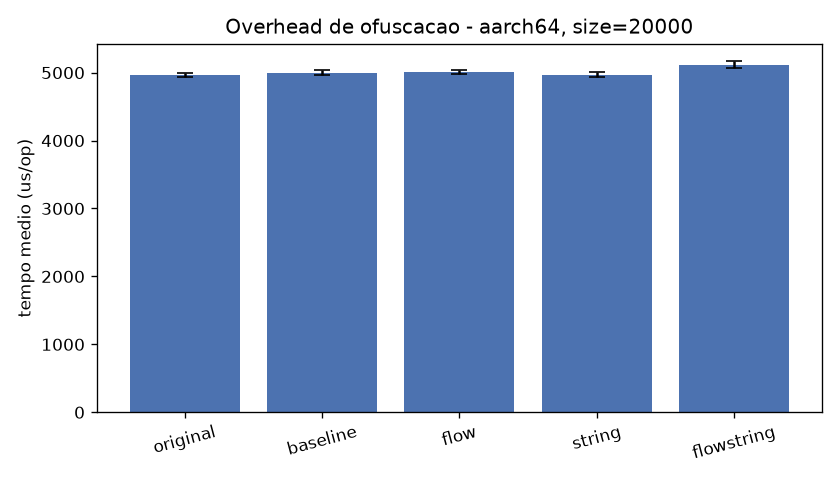
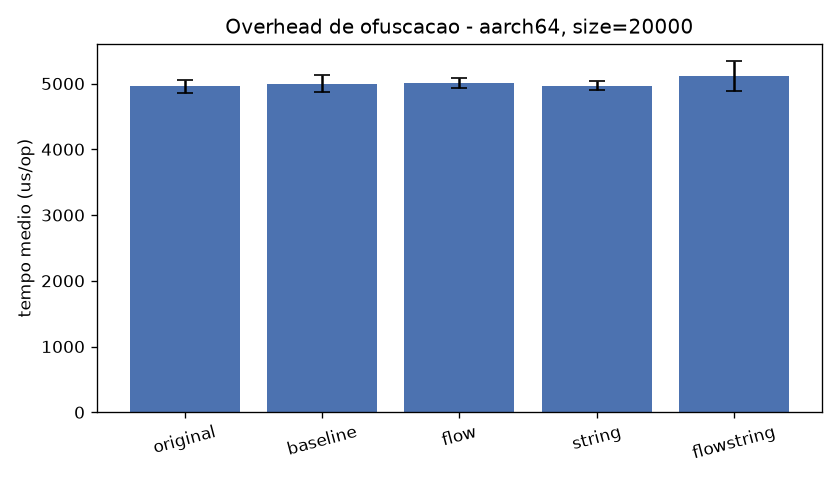
fix: ajusta script python

diff --git a/scripts/07_analyze.py b/scripts/07_analyze.py
@@ -2,13 +2,34 @@
 """
 T8 - Analise estatistica do overhead de ofuscacao a partir dos JSON do JMH.
 
-Le results/jmh-<arch>-<perfil>.json, agrega as amostras brutas (rawData) por
-(arquitetura, tamanho, perfil), e calcula:
-  - media, intervalo de confianca 95% (t de Student sobre as amostras);
-  - overhead relativo (%) de cada perfil vs. 'original';
-  - teste de significancia vs. 'original': Shapiro-Wilk decide entre
-    t de Welch (normal) e Mann-Whitney U (nao-normal);
-  - tamanho de efeito (Cliff's delta).
+Le results/jmh-<arch>-<perfil>.json e, para cada (arquitetura, tamanho, perfil):
+- agrega as amostras brutas (rawData) por FORK -> media por fork. O fork e a
+  unidade de independencia correta: iteracoes dentro de um mesmo fork sao
+  autocorrelacionadas (mesma JVM, aquecimento, JIT), entao tratar cada
+  iteracao como amostra independente subestima a variancia (pseudo-replicacao);
+- media e IC 95% (t de Student sobre as medias por fork);
+- overhead relativo (%) vs. 'original', com IC 95% por bootstrap da razao;
+- teste de significancia vs. 'original': Shapiro-Wilk decide entre t de Welch
+  (normal) e Mann-Whitney U (nao-normal), quando ha amostras suficientes;
+- correcao de multiplas comparacoes (Holm-Bonferroni) por (arch, size);
+- tamanho de efeito (Cliff's delta), vetorizado.
+
+Pipeline (main): load() -> analyze() -> summary.csv + plot().
+
+Colunas de analysis/summary.csv:
+  arch                arquitetura extraida do nome do arquivo (ex.: x64, arm64).
+  size                parametro 'size' do benchmark (nº de ordens).
+  profile             perfil de ofuscacao (original|baseline|flow|string|flowstring).
+  mean, ci_lo, ci_hi  tempo medio por fork e IC 95% (t de Student).
+  unit                unidade do JMH (ex.: us/op).
+  overhead_%_vs_original overhead percentual da media vs. 'original'.
+  overhead_ci_lo/hi   IC 95% do overhead via bootstrap da razao de medias.
+  test                teste aplicado vs. 'original' (welch-t|mann-whitney|n/a).
+  p_value             p-valor bruto do teste.
+  p_value_holm        p-valor ajustado por Holm-Bonferroni na familia (arch, size).
+  significant_5%      True se p_value_holm < 0.05.
+  cliffs_delta        tamanho de efeito nao-parametrico em [-1, 1].
+  n_forks             nº de forks (amostras) usados na inferencia.
 
 Saidas:
   analysis/summary.csv
@@ -24,7 +45,6 @@ import glob
 import json
 import os
 import re
-from itertools import product
 
 import numpy as np
 import pandas as pd
@@ -39,46 +59,79 @@ import matplotlib
 matplotlib.use("Agg")
 import matplotlib.pyplot as plt
 
-RESULTS_DIR = "results"
-OUT_DIR = "analysis"
+RESULTS_DIR = "results"              # diretorio de entrada com os JSON do JMH
+OUT_DIR = "analysis"                 # diretorio de saida (CSV + graficos)
 PROFILES_ORDER = ["original", "baseline", "flow", "string", "flowstring"]
 FNAME_RE = re.compile(r"jmh-(?P<arch>[^-]+)-(?P<profile>[a-z]+)\.json$")
+N_BOOTSTRAP = 10_000                 # reamostragens do IC de overhead
+RNG = np.random.default_rng(20260727)  # seed fixa -> resultados reproduziveis
 
 
-def flatten_raw(primary: dict) -> list[float]:
-    """Achata rawData (lista por fork de listas de iteracoes) em amostras."""
+def fork_means(primary: dict) -> list[float]:
+    """Reduz o rawData de um benchmark a uma media por fork.
+
+    rawData e uma lista (por fork) de listas (iteracoes). Reduzimos cada fork a
+    sua media, obtendo uma amostra por fork -- a unidade de independencia. Sem
+    rawData, usamos o score agregado como amostra unica.
+
+    Args:
+        primary: bloco 'primaryMetric' de uma entrada do JSON do JMH.
+
+    Returns:
+        Lista com uma media por fork (ou [score] no fallback).
+    """
     raw = primary.get("rawData")
-    samples: list[float] = []
+    means: list[float] = []
     if raw:
         for fork in raw:
-            samples.extend(float(x) for x in fork)
-    if not samples:  # fallback: usa o score agregado
-        samples = [float(primary["score"])]
-    return samples
+            vals = [float(x) for x in fork]
+            if vals:
+                means.append(float(np.mean(vals)))
+    if not means:  # fallback: usa o score agregado
+        means = [float(primary["score"])]
+    return means
 
 
 def load() -> pd.DataFrame:
+    """Carrega todos os results/jmh-*.json em um DataFrame long.
+
+    Cada linha corresponde a um (arch, profile, size) e carrega em 'samples' as
+    medias por fork. Arquivos ou entradas malformadas sao ignorados com aviso,
+    para que um JSON corrompido nao interrompa toda a analise.
+
+    Returns:
+        DataFrame com colunas: arch, profile, size, unit, samples.
+
+    Raises:
+        SystemExit: se nenhum arquivo valido for encontrado.
+    """
     rows = []
     for path in sorted(glob.glob(os.path.join(RESULTS_DIR, "jmh-*.json"))):
         m = FNAME_RE.search(os.path.basename(path))
         if not m:
             continue
         arch, profile = m.group("arch"), m.group("profile")
-        with open(path, encoding="utf-8") as fh:
-            data = json.load(fh)
+        try:
+            with open(path, encoding="utf-8") as fh:
+                data = json.load(fh)
+        except (OSError, json.JSONDecodeError) as exc:
+            print(f"[aviso] ignorando '{path}': {exc}")
+            continue
         for entry in data:
-            size = int(entry.get("params", {}).get("size", -1))
-            primary = entry["primaryMetric"]
-            rows.append(
-                {
-                    "arch": arch,
-                    "profile": profile,
-                    "size": size,
-                    "unit": primary.get("scoreUnit", "us/op"),
-                    "samples": flatten_raw(primary),
-                }
-            )
-            
+            try:
+                primary = entry["primaryMetric"]
+                size = int(entry.get("params", {}).get("size", -1))
+                rows.append(
+                    {
+                        "arch": arch,
+                        "profile": profile,
+                        "size": size,
+                        "unit": primary.get("scoreUnit", "us/op"),
+                        "samples": fork_means(primary),
+                    }
+                )
+            except (KeyError, TypeError, ValueError) as exc:
+                print(f"[aviso] entrada invalida em '{path}': {exc}")
     if not rows:
         raise SystemExit(
             f"Nenhum arquivo jmh-*.json em '{RESULTS_DIR}/'. Rode T6 (04_bench.sh) primeiro."
@@ -87,6 +140,14 @@ def load() -> pd.DataFrame:
 
 
 def ci95(samples: np.ndarray) -> tuple[float, float, float]:
+    """Media e IC 95% (t de Student) de um conjunto de amostras.
+
+    Com scipy ausente, usa a aproximacao normal (z=1.96). Com n<2 o intervalo
+    degenera para o proprio ponto.
+
+    Returns:
+        Tupla (media, limite_inferior, limite_superior).
+    """
     n = len(samples)
     mean = float(np.mean(samples))
     if n < 2:
@@ -100,21 +161,74 @@ def ci95(samples: np.ndarray) -> tuple[float, float, float]:
 
 
 def cliffs_delta(a: np.ndarray, b: np.ndarray) -> float:
-    """Cliff's delta em [-1,1]; >0 significa 'a' tipicamente maior que 'b'."""
-    gt = sum(1 for x, y in product(a, b) if x > y)
-    lt = sum(1 for x, y in product(a, b) if x < y)
+    """Cliff's delta em [-1,1]; >0 => 'a' tipicamente maior que 'b'. Vetorizado."""
+    a = np.asarray(a, float)
+    b = np.sort(np.asarray(b, float))
+    if len(a) == 0 or len(b) == 0:
+        return float("nan")
+    # para cada x em a: quantos b < x (gt) e quantos b > x (lt)
+    gt = int(np.searchsorted(b, a, side="left").sum())
+    lt = int((len(b) - np.searchsorted(b, a, side="right")).sum())
     return (gt - lt) / (len(a) * len(b))
 
 
+def bootstrap_overhead_ci(profile: np.ndarray, base: np.ndarray) -> tuple[float, float]:
+    """IC 95% do overhead (%) = (mean(profile)/mean(base) - 1)*100 via bootstrap."""
+    if len(profile) < 2 or len(base) < 2:
+        return float("nan"), float("nan")
+    pr = RNG.choice(profile, size=(N_BOOTSTRAP, len(profile)), replace=True).mean(axis=1)
+    ba = RNG.choice(base, size=(N_BOOTSTRAP, len(base)), replace=True).mean(axis=1)
+    ratios = (pr / ba - 1.0) * 100.0
+    lo, hi = np.percentile(ratios, [2.5, 97.5])
+    return float(lo), float(hi)
+
+
+def holm_bonferroni(pvals: list[float]) -> np.ndarray:
+    """Holm-Bonferroni; retorna p ajustados na ordem original (NaN ignorados)."""
+    p = np.asarray(pvals, float)
+    adj = np.full_like(p, np.nan)
+    idx = np.where(~np.isnan(p))[0]
+    if len(idx) == 0:
+        return adj
+    order = idx[np.argsort(p[idx])]
+    m = len(order)
+    prev = 0.0
+    for rank, i in enumerate(order):
+        val = min((m - rank) * float(p[i]), 1.0)
+        val = max(val, prev)  # garante monotonicidade
+        adj[i] = val
+        prev = val
+    return adj
+
+
 def significance(orig: np.ndarray, other: np.ndarray) -> tuple[float, str, float]:
-    if not HAVE_SCIPY or len(orig) < 3 or len(other) < 3:
-        return float("nan"), "n/a", cliffs_delta(other, orig)
+    """Compara 'other' vs, 'orig' e devolve (p_valor, teste, cliffs_delta).
+
+    Escolha do teste: Shapiro-Wilk em cada amostra decide entre t de Welch
+    (ambas normais) e Mann-Whitney U (caso contrario). Com poucos forks (n<3)
+    cai direto para Mann-Whitney, ou 'n/a' quando nem isso e viavel/scipy falta.
+
+    Returns:
+        (p_valor, nome_do_teste, cliffs_delta). p_valor pode ser NaN.
+    """
+    delta = cliffs_delta(other, orig)
+    if not HAVE_SCIPY:
+        return float("nan"), "n/a", delta
+    # amostras pequenas (poucos forks): usa Mann-Whitney se viavel, senao n/a
+    if len(orig) < 3 or len(other) < 3:
+        if len(orig) >= 1 and len(other) >= 1 and len(orig) + len(other) >= 3:
+            try:
+                p = stats.mannwhitneyu(other, orig, alternative="two-sided").pvalue
+                return float(p), "mann-whitney", delta
+            except ValueError:
+                pass
+        return float("nan"), "n/a", delta
     normal = True
     for s in (orig, other):
         try:
             if stats.shapiro(s).pvalue < 0.05:
                 normal = False
-        except Exception:
+        except ValueError:
             normal = False
     if normal:
         p = stats.ttest_ind(other, orig, equal_var=False).pvalue
@@ -122,27 +236,42 @@ def significance(orig: np.ndarray, other: np.ndarray) -> tuple[float, str, float
     else:
         p = stats.mannwhitneyu(other, orig, alternative="two-sided").pvalue
         test = "mann-whitney"
-    return float(p), test, cliffs_delta(other, orig)
+    return float(p), test, delta
 
 
 def analyze(df: pd.DataFrame) -> pd.DataFrame:
+    """Agrega por (arch, size) e produz o DataFrame de resumo por perfil.
+
+    Para cada grupo calcula media/IC, overhead vs. 'original' (com IC bootstrap),
+    teste de significancia e Cliff's delta. Os p-valores dos perfis != original
+    formam uma familia por grupo, corrigida via Holm-Bonferroni; 'significant_5%'
+    usa o p ajustado.
+
+    Returns:
+        DataFrame com uma linha por (arch, size, profile). Veja o cabecalho do
+        modulo para a descricao das colunas.
+    """
     out = []
     for (arch, size), grp in df.groupby(["arch", "size"]):
         by_profile = {r.profile: np.asarray(r.samples, float) for r in grp.itertuples()}
         base = by_profile.get("original")
+        unit = grp.iloc[0]["unit"]
+        rows: list[dict] = []
+        raw_p: list[float] = []  # p-valores brutos da familia (perfis != original)
         for profile in PROFILES_ORDER:
             if profile not in by_profile:
                 continue
             s = by_profile[profile]
             mean, lo, hi = ci95(s)
-            unit = grp.iloc[0]["unit"]
             overhead = float("nan")
+            oh_lo = oh_hi = float("nan")
             p, test, delta = float("nan"), "", float("nan")
             if base is not None and len(base):
                 overhead = (mean / float(np.mean(base)) - 1.0) * 100.0
                 if profile != "original":
                     p, test, delta = significance(base, s)
-            out.append(
+                    oh_lo, oh_hi = bootstrap_overhead_ci(s, base)
+            rows.append(
                 {
                     "arch": arch,
                     "size": size,
@@ -152,17 +281,28 @@ def analyze(df: pd.DataFrame) -> pd.DataFrame:
                     "ci_hi": round(hi, 4),
                     "unit": unit,
                     "overhead_%_vs_original": round(overhead, 2),
+                    "overhead_ci_lo": None if np.isnan(oh_lo) else round(oh_lo, 2),
+                    "overhead_ci_hi": None if np.isnan(oh_hi) else round(oh_hi, 2),
                     "test": test,
                     "p_value": None if np.isnan(p) else round(p, 6),
-                    "significant_5%": (not np.isnan(p)) and p < 0.05,
                     "cliffs_delta": None if np.isnan(delta) else round(delta, 3),
-                    "n_samples": len(s),
+                    "n_forks": len(s),
                 }
             )
+            raw_p.append(p if profile != "original" else float("nan"))
+        adj = holm_bonferroni(raw_p)
+        for row, padj in zip(rows, adj):
+            row["p_value_holm"] = None if np.isnan(padj) else round(float(padj), 6)
+            row["significant_5%"] = (not np.isnan(padj)) and padj < 0.05
+            out.append(row)
     return pd.DataFrame(out)
 
 
 def plot(summary: pd.DataFrame) -> None:
+    """Gera um grafico de barras (tempo medio + IC 95%) por (arch, size).
+
+    Salva um PNG por grupo em OUT_DIR, com os perfis na ordem de PROFILES_ORDER.
+    """
     for (arch, size), grp in summary.groupby(["arch", "size"]):
         grp = grp.set_index("profile").reindex(
             [p for p in PROFILES_ORDER if p in grp["profile"].values]
@@ -178,10 +318,11 @@ def plot(summary: pd.DataFrame) -> None:
         fig = os.path.join(OUT_DIR, f"overhead-{arch}-size{size}.png")
         plt.savefig(fig, dpi=120)
         plt.close()
-        print(f"  grafico: {fig}")
+        print(f" grafico: {fig}")
 
 
 def main() -> None:
+    """Orquestra a analise: le os JSON, gera summary.csv, imprime e plota."""
     os.makedirs(OUT_DIR, exist_ok=True)
     df = load()
     summary = analyze(df)
@@ -193,6 +334,12 @@ def main() -> None:
         print(summary.to_string(index=False))
     print()
     plot(summary)
+    min_forks = int(summary["n_forks"].min()) if not summary.empty else 0
+    if min_forks < 5:
+        print(
+            f"\n[aviso] poucos forks (min={min_forks}): baixo poder estatistico. "
+            "Aumente 'forks' no JMH para inferencia mais robusta."
+        )
     if not HAVE_SCIPY:
         print("\n[aviso] scipy ausente: p-valor/efeito nao calculados. pip install scipy")
 
